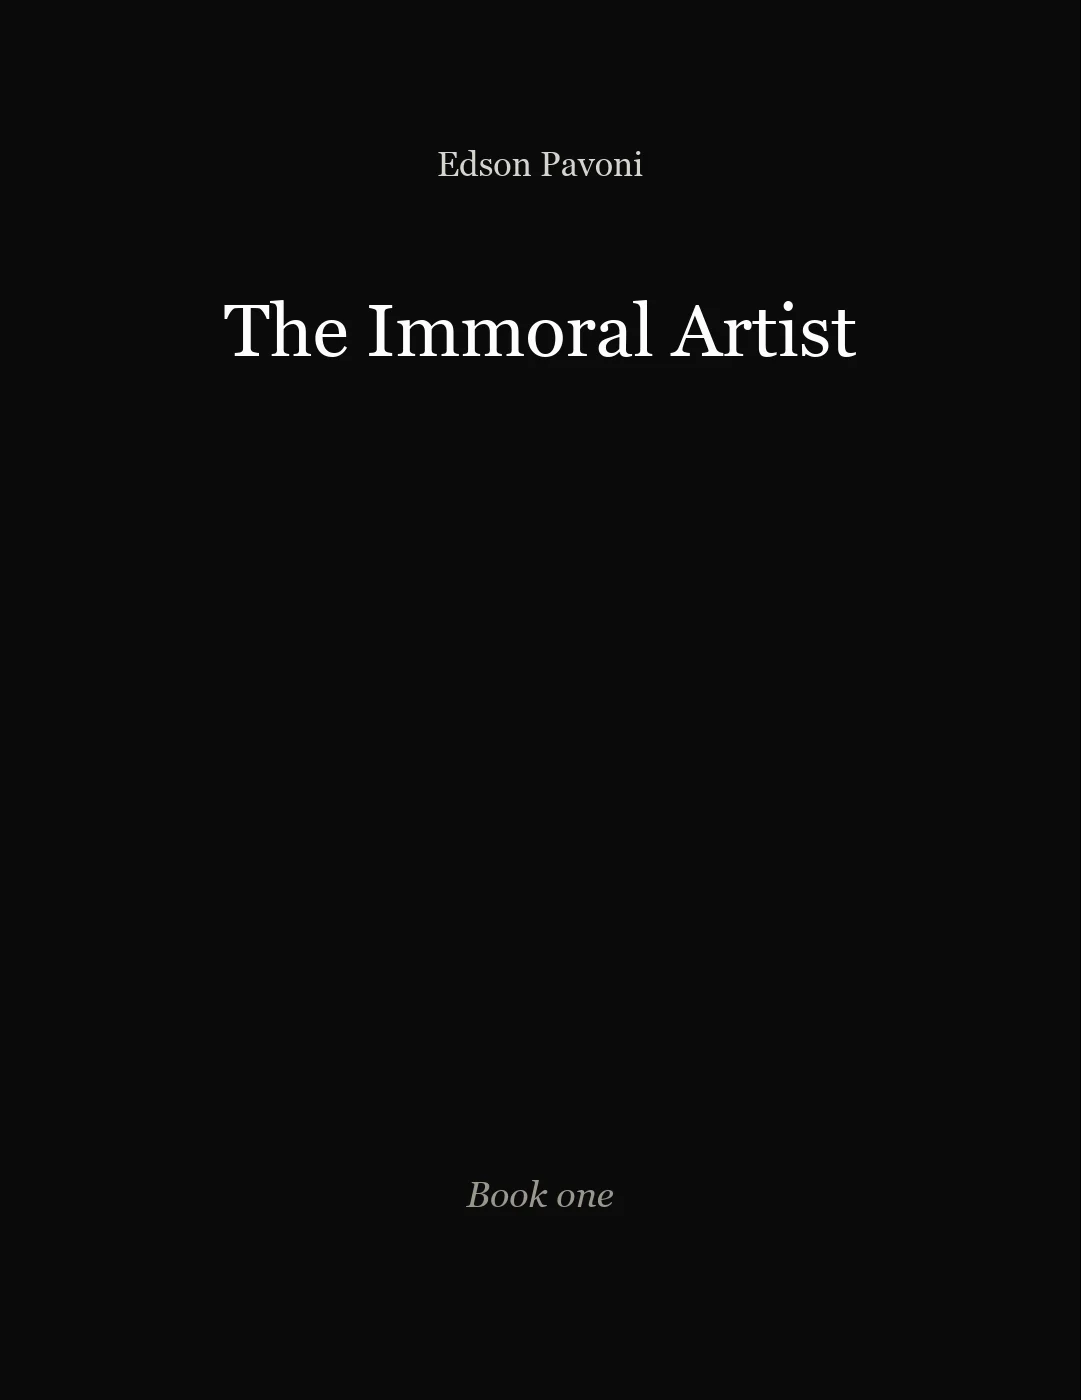
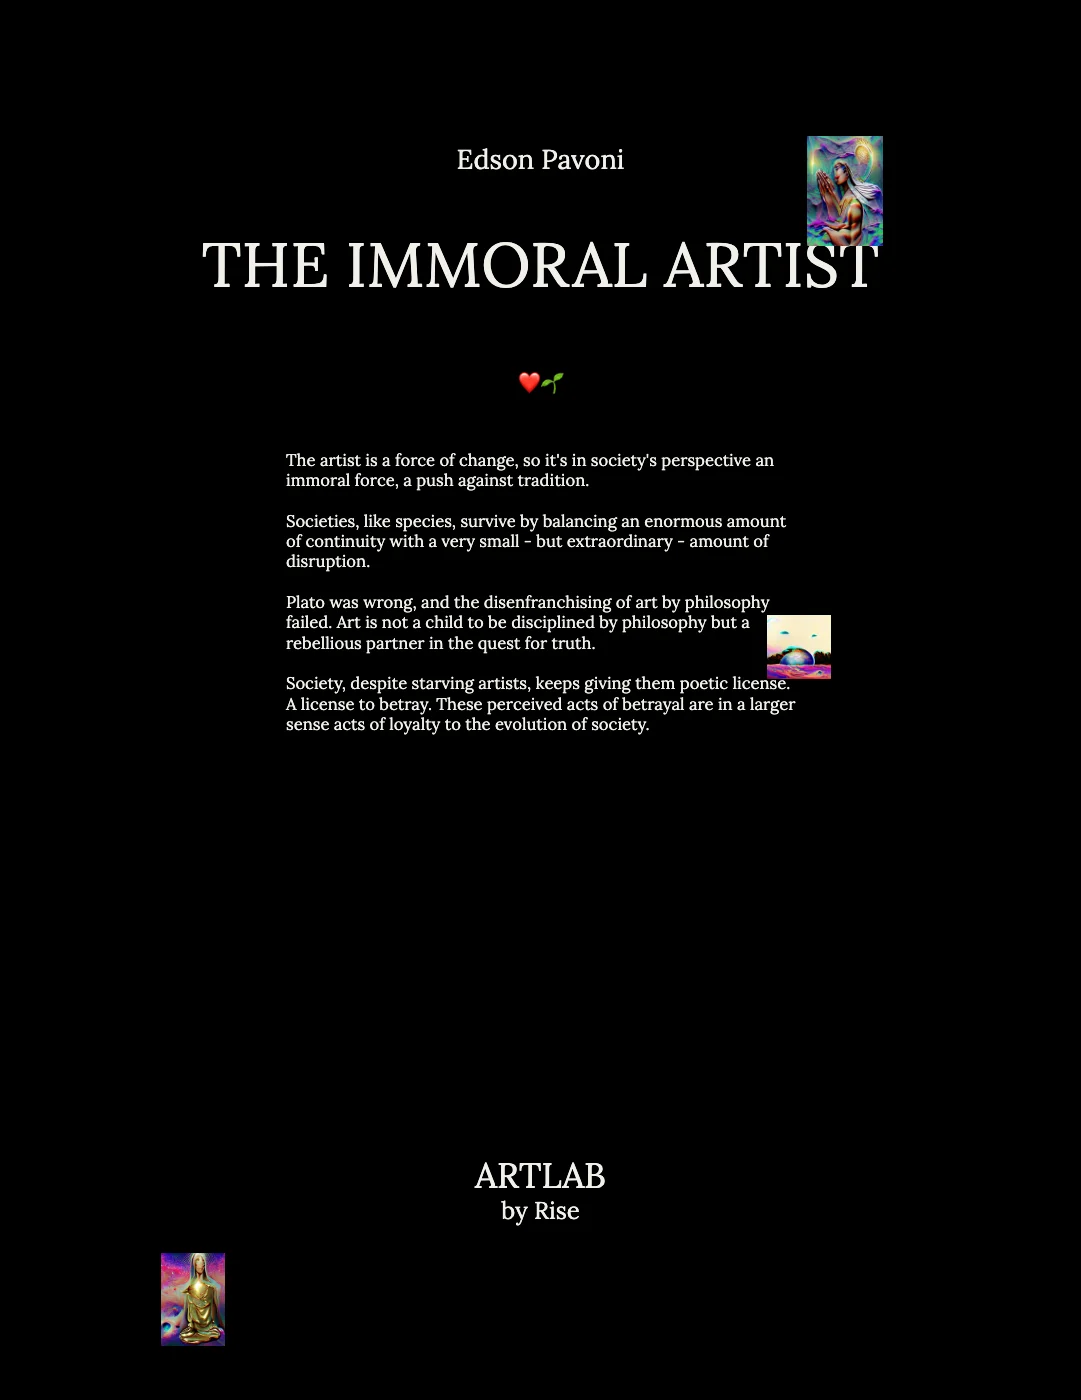
Backs for the three books in the first book's layout (title, thesis lines from the 2025 back, stickers); template in tools/back-placeholder.html

diff --git a/tools/back-placeholder.html b/tools/back-placeholder.html
@@ -1,0 +1,40 @@
+<!doctype html><html><head><meta charset="utf-8">
+<link href="https://fonts.googleapis.com/css2?family=Lora:wght@400&display=block" rel="stylesheet">
+<style>
+  html,body{margin:0;background:#000}
+  .b{position:relative;width:1081px;height:1400px;background:#000;color:#f2f0ea;font-family:Lora,Georgia,serif;text-align:center;overflow:hidden}
+  .au{position:absolute;top:142px;left:0;right:0;font-size:27px}
+  h1{position:absolute;top:222px;left:110px;right:110px;margin:0;font-weight:400;font-size:62px;line-height:1.38;text-transform:uppercase;letter-spacing:.005em}
+  .em{position:absolute;left:0;right:0;font-size:21px}
+  .tx{position:absolute;left:286px;width:512px;text-align:left;font-size:16.6px;line-height:1.22}
+  .tx p{margin:0 0 20.5px}
+  .pub{position:absolute;left:0;right:0;font-size:35px;line-height:1.2}.pub small{display:block;font-size:24px}
+  img{position:absolute;display:block}
+</style></head><body><div class="b" id="b"></div>
+<script>
+const BOOKS = {
+  1: { title: "The Immoral Artist", st: [1, 6, 2], lines: [
+    "The artist is a force of change, so it's in society's perspective an immoral force, a push against tradition.",
+    "Societies, like species, survive by balancing an enormous amount of continuity with a very small - but extraordinary - amount of disruption.",
+    "Plato was wrong, and the disenfranchising of art by philosophy failed. Art is not a child to be disciplined by philosophy but a rebellious partner in the quest for truth.",
+    "Society, despite starving artists, keeps giving them poetic license. A license to betray. These perceived acts of betrayal are in a larger sense acts of loyalty to the evolution of society."] },
+  2: { title: "Art, Ritual and Pixel", st: [5, 8, 3], lines: [
+    "Ritual and pixel are opposite forces, one creates community and the other isolation.",
+    "The pixel is an anti-aura object, capable of draining the meaning of the ideas and artifacts around us.",
+    "Our minds are imitating the nature of the pixel creating a crisis of lingering."] },
+  3: { title: "The Poetics of Technology", st: [4, 9, 7], lines: [
+    "Technology determinism is wrong and the coming age of pixel hallucination is not inevitable.",
+    "The artist has a role, if they decide to take it, in creating new non-dystopian imaginaries for the future mediated by technology."] },
+};
+const k = new URLSearchParams(location.search).get("b"), B = BOOKS[k];
+const h1Lines = B.title.length > 22 ? 2 : 1, titleBottom = 222 + h1Lines * 86;
+const em = titleBottom + 60, tx = em + 82;
+document.getElementById("b").innerHTML = `
+  <div class="au">Edson Pavoni</div><h1>${B.title}</h1>
+  <div class="em" style="top:${em}px">❤🌱</div>
+  <div class="tx" style="top:${tx}px">${B.lines.map((l) => `<p>${l}</p>`).join("")}</div>
+  <div class="pub" style="top:1155px">ARTLAB<small>by Rise</small></div>
+  <img src="st${B.st[0]}.png" style="left:807px;top:136px;width:76px">
+  <img src="st${B.st[1]}.png" style="left:767px;top:${tx + 165}px;width:64px">
+  <img src="st${B.st[2]}.png" style="left:161px;top:1253px;width:64px">`;
+</script></body></html>
